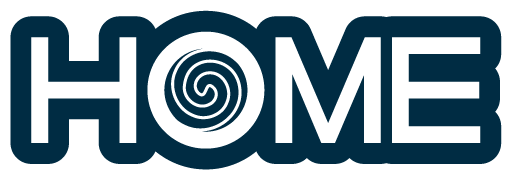
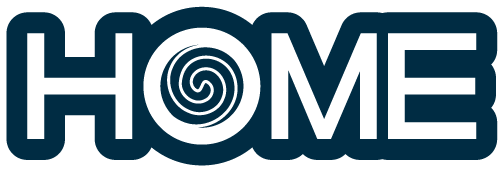
fix: 🌀 로고 겉 테두리 1px 수준으로 축소·글로우 최소화 + 표시 높이 재보정

Changed region(s): [[0.0, 0.0291, 1.0, 0.9884], [0.3274, 0.7558, 0.4762, 0.843], [0.6548, 0.1163, 0.6845, 0.1453]]

diff --git a/play/pastlife.html b/play/pastlife.html
@@ -8,7 +8,7 @@
   <link rel="preconnect" href="https://fonts.googleapis.com" />
   <link rel="preconnect" href="https://fonts.gstatic.com" crossorigin />
   <link href="https://fonts.googleapis.com/css2?family=Jua&display=swap" rel="stylesheet" />
-  <link rel="stylesheet" href="../css/style.css?v=cl6" />
+  <link rel="stylesheet" href="../css/style.css?v=cl7" />
   <style>
     .life-card { background: var(--surface); border: 2px solid var(--line); border-radius: 16px; padding: 16px 18px; margin-bottom: 14px; }
     .life-era { display: inline-block; background: var(--cream); border-radius: 999px; padding: 4px 12px; font-size: 0.82rem; color: var(--ink-soft); margin-bottom: 8px; }
@@ -74,7 +74,7 @@
     <p class="fine-print">업보는 셀프</p>
   </main>
   <div id="site-footer"></div>
-  <script src="../js/common.js?v=23" data-root=".."></script>
+  <script src="../js/common.js?v=24" data-root=".."></script>
   <script src="js/saju.js"></script>
   <script src="js/dosa.js?v=2"></script>
   <script src="js/feed.js?v=10"></script>

diff --git a/play/foodtype.html b/play/foodtype.html
@@ -8,7 +8,7 @@
   <link rel="preconnect" href="https://fonts.googleapis.com" />
   <link rel="preconnect" href="https://fonts.gstatic.com" crossorigin />
   <link href="https://fonts.googleapis.com/css2?family=Jua&display=swap" rel="stylesheet" />
-  <link rel="stylesheet" href="../css/style.css?v=cl6" />
+  <link rel="stylesheet" href="../css/style.css?v=cl7" />
   <style>
     .tags { display: flex; flex-wrap: wrap; gap: 8px; justify-content: center; margin: 14px 0 4px; }
     .tag { background: var(--cream); border: 1.5px solid var(--line); border-radius: 999px; padding: 5px 12px; font-size: 0.9rem; color: var(--ink-soft); }
@@ -21,7 +21,7 @@
     <section class="panel"><div id="quiz"></div></section>
   </main>
   <div id="site-footer"></div>
-  <script src="../js/common.js?v=23" data-root=".."></script>
+  <script src="../js/common.js?v=24" data-root=".."></script>
   <script src="js/feed.js?v=10"></script>
   <script src="js/quiz.js?v=4"></script>
   <script src="js/sharecard.js"></script>

diff --git a/play/love-test.html b/play/love-test.html
@@ -8,7 +8,7 @@
   <link rel="preconnect" href="https://fonts.googleapis.com" />
   <link rel="preconnect" href="https://fonts.gstatic.com" crossorigin />
   <link href="https://fonts.googleapis.com/css2?family=Jua&display=swap" rel="stylesheet" />
-  <link rel="stylesheet" href="../css/style.css?v=cl6" />
+  <link rel="stylesheet" href="../css/style.css?v=cl7" />
   <style>
     .tags { display: flex; flex-wrap: wrap; gap: 8px; justify-content: center; margin: 14px 0 4px; }
     .tag { background: var(--cream); border: 1.5px solid var(--line); border-radius: 999px; padding: 5px 12px; font-size: 0.9rem; color: var(--ink-soft); }
@@ -21,7 +21,7 @@
     <section class="panel"><div id="quiz"></div></section>
   </main>
   <div id="site-footer"></div>
-  <script src="../js/common.js?v=23" data-root=".."></script>
+  <script src="../js/common.js?v=24" data-root=".."></script>
   <script src="js/feed.js?v=10"></script>
   <script src="js/quiz.js?v=4"></script>
   <script src="js/sharecard.js"></script>

diff --git a/play/zombie.html b/play/zombie.html
@@ -8,7 +8,7 @@
   <link rel="preconnect" href="https://fonts.googleapis.com" />
   <link rel="preconnect" href="https://fonts.gstatic.com" crossorigin />
   <link href="https://fonts.googleapis.com/css2?family=Jua&display=swap" rel="stylesheet" />
-  <link rel="stylesheet" href="../css/style.css?v=cl6" />
+  <link rel="stylesheet" href="../css/style.css?v=cl7" />
   <style>
     .tags { display: flex; flex-wrap: wrap; gap: 8px; justify-content: center; margin: 14px 0 4px; }
     .tag { background: var(--cream); border: 1.5px solid var(--line); border-radius: 999px; padding: 5px 12px; font-size: 0.9rem; color: var(--ink-soft); }
@@ -21,7 +21,7 @@
     <section class="panel"><div id="quiz"></div></section>
   </main>
   <div id="site-footer"></div>
-  <script src="../js/common.js?v=23" data-root=".."></script>
+  <script src="../js/common.js?v=24" data-root=".."></script>
   <script src="js/feed.js?v=10"></script>
   <script src="js/quiz.js?v=4"></script>
   <script src="js/sharecard.js"></script>

diff --git a/play/chatroom.html b/play/chatroom.html
@@ -8,7 +8,7 @@
   <link rel="preconnect" href="https://fonts.googleapis.com" />
   <link rel="preconnect" href="https://fonts.gstatic.com" crossorigin />
   <link href="https://fonts.googleapis.com/css2?family=Jua&display=swap" rel="stylesheet" />
-  <link rel="stylesheet" href="../css/style.css?v=cl6" />
+  <link rel="stylesheet" href="../css/style.css?v=cl7" />
   <style>
     .tags { display: flex; flex-wrap: wrap; gap: 8px; justify-content: center; margin: 14px 0 4px; }
     .tag { background: var(--cream); border: 1.5px solid #e8e2d4; border-radius: 999px; padding: 5px 12px; font-size: 0.9rem; color: var(--ink-soft); }
@@ -21,7 +21,7 @@
     <section class="panel"><div id="quiz"></div></section>
   </main>
   <div id="site-footer"></div>
-  <script src="../js/common.js?v=23" data-root=".."></script>
+  <script src="../js/common.js?v=24" data-root=".."></script>
   <script src="js/feed.js?v=10"></script>
   <script src="js/quiz.js?v=4"></script>
   <script src="js/sharecard.js"></script>

diff --git a/play/profile-card.html b/play/profile-card.html
@@ -8,7 +8,7 @@
   <link rel="preconnect" href="https://fonts.googleapis.com" />
   <link rel="preconnect" href="https://fonts.gstatic.com" crossorigin />
   <link href="https://fonts.googleapis.com/css2?family=Jua&display=swap" rel="stylesheet" />
-  <link rel="stylesheet" href="../css/style.css?v=cl6" />
+  <link rel="stylesheet" href="../css/style.css?v=cl7" />
   <style>
     .nick-row { display: flex; gap: 8px; justify-content: center; margin-bottom: 14px; }
     .nick-row input { font-family: inherit; font-size: 1rem; padding: 9px 14px; border: 2px solid var(--line); border-radius: 12px; width: 200px; text-align: center; }
@@ -58,7 +58,7 @@
     <p class="fine-print">결과는 이 브라우저에만 저장돼요</p>
   </main>
   <div id="site-footer"></div>
-  <script src="../js/common.js?v=23" data-root=".."></script>
+  <script src="../js/common.js?v=24" data-root=".."></script>
   <script src="js/feed.js?v=10"></script>
   <script src="js/saju.js"></script>
   <script>

diff --git a/play/naming.html b/play/naming.html
@@ -8,7 +8,7 @@
   <link rel="preconnect" href="https://fonts.googleapis.com" />
   <link rel="preconnect" href="https://fonts.gstatic.com" crossorigin />
   <link href="https://fonts.googleapis.com/css2?family=Jua&display=swap" rel="stylesheet" />
-  <link rel="stylesheet" href="../css/style.css?v=cl6" />
+  <link rel="stylesheet" href="../css/style.css?v=cl7" />
   <style>
     .cat-grid { display: grid; grid-template-columns: 1fr 1fr; gap: 10px; margin-bottom: 14px; }
     .cat-tile { background: var(--cream); border: 2px solid transparent; border-radius: 14px;
@@ -43,7 +43,7 @@
     <p class="fine-print">이름은 참고용이에요 — 마음에 드는 걸 골라 쓰세요 🙂</p>
   </main>
   <div id="site-footer"></div>
-  <script src="../js/common.js?v=23" data-root=".."></script>
+  <script src="../js/common.js?v=24" data-root=".."></script>
   <script src="js/feed.js?v=10"></script>
   <script src="js/dosa.js?v=2"></script>
   <script>

diff --git a/play/mini.html b/play/mini.html
@@ -8,7 +8,7 @@
   <link rel="preconnect" href="https://fonts.googleapis.com" />
   <link rel="preconnect" href="https://fonts.gstatic.com" crossorigin />
   <link href="https://fonts.googleapis.com/css2?family=Jua&display=swap" rel="stylesheet" />
-  <link rel="stylesheet" href="../css/style.css?v=cl6" />
+  <link rel="stylesheet" href="../css/style.css?v=cl7" />
   <style>
     /* 남색 밤+황금 초승달+모래 땅 배경(홈과 가장 닮은 톤) — 뷰포트 고정 레이어 */
     body.clay { background: #1a2242 !important; }
@@ -161,7 +161,7 @@
     <p class="fine-print" style="margin-top:24px">가볍게 즐겨주세요 🙂</p>
   </main>
   <div id="site-footer"></div>
-  <script src="../js/common.js?v=23" data-root=".."></script>
+  <script src="../js/common.js?v=24" data-root=".."></script>
   <script src="js/hub-fan.js?v=2" data-root=".."></script>
   <script>
     // 행성 클릭 메뉴(홈과 동일) — 데스크톱 전용

diff --git a/play/goblub.html b/play/goblub.html
@@ -8,7 +8,7 @@
   <link rel="preconnect" href="https://fonts.googleapis.com" />
   <link rel="preconnect" href="https://fonts.gstatic.com" crossorigin />
   <link href="https://fonts.googleapis.com/css2?family=Jua&display=swap" rel="stylesheet" />
-  <link rel="stylesheet" href="../css/style.css?v=cl6" />
+  <link rel="stylesheet" href="../css/style.css?v=cl7" />
   <style>
     .pet { position: relative; text-align: center; margin: 6px 0 2px; transition: transform 0.25s; }
     .pet.nom { animation: nom 0.5s ease; }
@@ -88,7 +88,7 @@
     <p class="fine-print">고브럽은 이 브라우저에서 자라요 — 브라우저를 바꾸면 새 알을 만나게 됩니다 🥚</p>
   </main>
   <div id="site-footer"></div>
-  <script src="../js/common.js?v=23" data-root=".."></script>
+  <script src="../js/common.js?v=24" data-root=".."></script>
   <script src="js/feed.js?v=10"></script>
   <script src="js/goblub-art.js"></script>
   <script>

diff --git a/play/today.html b/play/today.html
@@ -8,7 +8,7 @@
   <link rel="preconnect" href="https://fonts.googleapis.com" />
   <link rel="preconnect" href="https://fonts.gstatic.com" crossorigin />
   <link href="https://fonts.googleapis.com/css2?family=Jua&family=Nanum+Myeongjo:wght@700;800&display=swap" rel="stylesheet" />
-  <link rel="stylesheet" href="../css/style.css?v=cl6" />
+  <link rel="stylesheet" href="../css/style.css?v=cl7" />
   <style>
     .profile-badge { display: flex; align-items: center; justify-content: space-between; gap: 10px; flex-wrap: wrap; }
     .profile-badge .who { font-size: 1.15rem; }
@@ -110,7 +110,7 @@
     <p class="fine-print" id="t-err"></p>
   </main>
   <div id="site-footer"></div>
-  <script src="../js/common.js?v=23" data-root=".."></script>
+  <script src="../js/common.js?v=24" data-root=".."></script>
   <script src="js/saju.js"></script>
   <script src="js/fortune.js"></script>
   <script src="js/profile.js"></script>

diff --git a/apps.html b/apps.html
@@ -8,7 +8,7 @@
   <link rel="preconnect" href="https://fonts.googleapis.com" />
   <link rel="preconnect" href="https://fonts.gstatic.com" crossorigin />
   <link href="https://fonts.googleapis.com/css2?family=Jua&display=swap" rel="stylesheet" />
-  <link rel="stylesheet" href="css/style.css?v=cl6" />
+  <link rel="stylesheet" href="css/style.css?v=cl7" />
   <style>
     /* 차콜 인디고+물의 행성+로즈핑크 땅 배경 — 뷰포트 고정 레이어 */
     body.clay { background: #1c2026 !important; }
@@ -173,7 +173,7 @@
 
   <div id="site-footer"></div>
   <script src="play/js/goblub-art.js"></script>
-  <script src="js/common.js?v=23" data-root="."></script>
+  <script src="js/common.js?v=24" data-root="."></script>
   <script src="play/js/hub-fan.js?v=2" data-root="."></script>
   <script>
     // 행성 클릭 메뉴(홈과 동일) — 데스크톱 전용. 앱 페이지에서는 홈/로그인으로

diff --git a/play/mini2.html b/play/mini2.html
@@ -8,7 +8,7 @@
   <link rel="preconnect" href="https://fonts.googleapis.com" />
   <link rel="preconnect" href="https://fonts.gstatic.com" crossorigin />
   <link href="https://fonts.googleapis.com/css2?family=Jua&display=swap" rel="stylesheet" />
-  <link rel="stylesheet" href="../css/style.css?v=cl6" />
+  <link rel="stylesheet" href="../css/style.css?v=cl7" />
   <style>
     /* 남색 밤+분홍 진주달+바다 배경 — 뷰포트 고정 레이어 */
     body.clay { background: #131c3e !important; }
@@ -145,7 +145,7 @@
     <p class="fine-print" style="margin-top:24px">가볍게 즐겨주세요 🙂</p>
   </main>
   <div id="site-footer"></div>
-  <script src="../js/common.js?v=23" data-root=".."></script>
+  <script src="../js/common.js?v=24" data-root=".."></script>
   <script src="js/hub-fan.js?v=2" data-root=".."></script>
   <script>
     // 행성 클릭 메뉴(홈과 동일) — 데스크톱 전용
